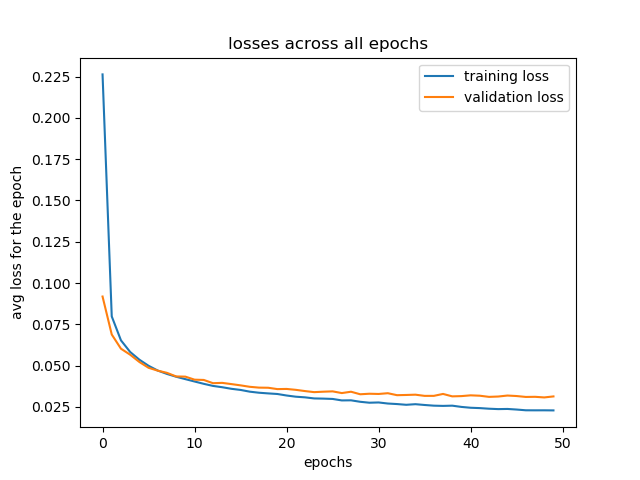
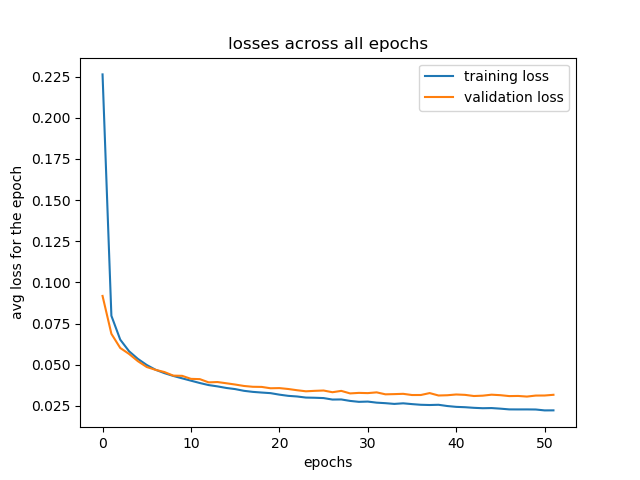
everything

diff --git a/neuralnet_starter.py b/neuralnet_starter.py
@@ -7,8 +7,8 @@ config = {}
 config['layer_specs'] = [784, 50, 10]  # The length of list denotes number of hidden layers; each element denotes number of neurons in that layer; first element is the size of input layer, last element is the size of output layer.
 config['activation'] = 'tanh' # Takes values 'sigmoid', 'tanh' or 'ReLU'; denotes activation function for hidden layers
 config['batch_size'] = 1000  # Number of training samples per batch to be passed to network
-config['epochs'] = 50  # Number of epochs to train the model
-config['early_stop'] = False  # Implement early stopping or not
+config['epochs'] = 100  # Number of epochs to train the model
+config['early_stop'] = True  # Implement early stopping or not
 config['early_stop_epoch'] = 3  # Number of epochs for which validation loss increases to be counted as overfitting
 config['L2_penalty'] = 0.0  # Regularization constant
 config['momentum'] = True  # Denotes if momentum is to be applied or not
@@ -347,9 +347,12 @@ def trainer(model, X_train, y_train, X_valid, y_valid, config):
   val_loss = [float('inf')]
   test_scores = []
 
+  train_accu = []
+  valid_accu = []
+
 
   #validation loss increase per epoch counter
-  c = 0
+  c = -1
   
   for i in range(config["epochs"]):
     np.random.seed(i)
@@ -361,8 +364,6 @@ def trainer(model, X_train, y_train, X_valid, y_valid, config):
     '''You should average the loss across all mini batches'''
     #means sum up loss from all mini-batches and divide by num_batches
     sums = 0
-
-    compare = False
 
     num_batches = int(X_train.shape[0] / b_size)
     k=0
@@ -406,23 +407,17 @@ def trainer(model, X_train, y_train, X_valid, y_valid, config):
 
     '''TEST ACCURACY''' 
     #if val loss better (less) than prev: calculate test scores
-    if stop and i == stop_count:
-      compare = True
-      last_n = np.array(val_loss[-stop_count:]) > v_loss_norm
-
-
-
-
-    if compare and v_loss_norm > val_loss[-1]:
-      print("val loss going up from last time")
+    
+    if v_loss_norm > val_loss[-1]:
+      print("val loss going up from last time at epoch i=", i)
       c += 1
+    else:
+      c = 0
       '''insert code for test accu here'''
     #   val_loss.append(v_loss_norm)
     # else: #else val loss increased, so increment counter
       
     val_loss.append(v_loss_norm)
-      
-
     
     '''EARLY STOPPING'''
     if stop and c == stop_count:
@@ -430,7 +425,7 @@ def trainer(model, X_train, y_train, X_valid, y_valid, config):
       break
 
   print(val_loss[1:3])
-  print(xnloss, len(xnloss), len(val_loss[1:]))
+  print(val_loss, len(xnloss), len(val_loss[1:]))
   #outside of epochs loop
   plt.plot(xnloss, label='training loss')
   plt.plot(val_loss[1:], label='validation loss')
